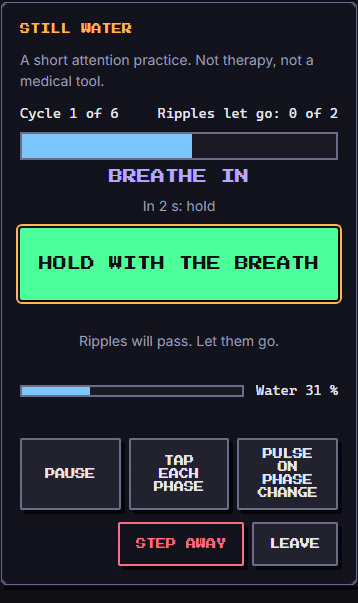
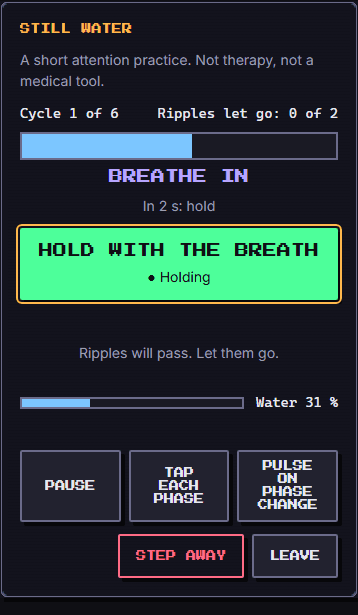
test(games): Still Water review round 1: e2e updated, notes, screenshots [game-still-water]

diff --git a/e2e/games/still-water.spec.ts b/e2e/games/still-water.spec.ts
@@ -59,18 +59,18 @@ test('plays a full game to an outcome', async ({ page }, testInfo) => {
   await begin(page);
   const cue = page.getByTestId('still-water-phase');
   const hold = page.getByTestId('still-water-hold');
-  await expect(cue).toHaveText('Breathe in');
+  await expect(cue).toContainText('Breathe in');
   await hold.hover();
   await page.mouse.down();
   await expect(hold).toHaveAttribute('aria-pressed', 'true');
   await page.clock.runFor(2500);
   await shootGame(page, testInfo, ID, 'play');
   await page.clock.runFor(2500);
-  await expect(cue).toHaveText('Hold');
+  await expect(cue).toContainText('Hold');
   await page.mouse.up();
   await expect(hold).toHaveAttribute('aria-pressed', 'false');
   await page.clock.runFor(1500);
-  await expect(cue).toHaveText('Breathe out');
+  await expect(cue).toContainText('Breathe out');
   await page.getByRole('button', { name: 'Pause' }).click();
   await expect(cue).toHaveText(/Paused/);
   await page.getByRole('button', { name: 'Resume' }).click();
@@ -93,7 +93,7 @@ test('replaying the same seed gives the same outcome', async ({ page }) => {
   expect(outcome.result).toBe('fled');
   // One perfect cycle of eight, ceiling 900 (no ripple has passed yet, the calm is whole): 100 x 900 / 800, rounded.
   expect(outcome.score).toBe('113');
-  expect(outcome.log).toMatch(/Cycle 1: the breath matched 100 %/);
+  expect(outcome.log).toMatch(/Cycle 1: the breath matched 100\s%/);
 });
 
 // This game's own checks.
@@ -103,7 +103,7 @@ test('plays with the keyboard, in French, and steps away with a partial score', 
   await expect(stage(page).getByRole('heading', { name: 'Eau calme' })).toBeVisible();
   await expect(page.getByTestId('still-water-disclaimer')).toContainText('ni une thérapie');
   await begin(page);
-  await expect(page.getByTestId('still-water-phase')).toHaveText('Inspire');
+  await expect(page.getByTestId('still-water-phase')).toContainText('Inspire');
   // Focus goes to the big button, so Space is enough; Enter holds too.
   await expect(page.getByTestId('still-water-hold')).toBeFocused();
   await page.keyboard.down('Space');
@@ -113,7 +113,7 @@ test('plays with the keyboard, in French, and steps away with a partial score', 
   await expect(page.getByTestId('still-water-hold')).toHaveAttribute('aria-pressed', 'true');
   await page.keyboard.up('Enter');
   await page.clock.runFor(5000);
-  await expect(page.getByTestId('still-water-phase')).toHaveText('Retiens');
+  await expect(page.getByTestId('still-water-phase')).toContainText('Retiens');
   await stage(page).getByRole('button', { name: "S'éloigner" }).click();
   expect((await readOutcome(page)).result).toBe('fled');
   await expect(page.getByTestId('still-water-banner')).toContainText('Tu as quitté la berge');
@@ -123,15 +123,19 @@ test('plays with the keyboard, in French, and steps away with a partial score', 
   await expectValidOutcome(page);
 });
 
-test('a higher difficulty breathes faster, and a Move troop can choose the pace', async ({ page }) => {
+test('a Move troop can choose the pace before it begins', async ({ page }) => {
   await openLab(page, ID, { seed: 9, difficulty: 1, party: 'starter' });
   const rhythm = page.getByTestId('still-water-rhythm');
-  const easy = (await rhythm.innerText()).replace(/\s/g, ' ');
-  expect(easy).toBe('In 4 s · hold 2 s · out 6 s');
+  expect((await rhythm.innerText()).replace(/\s/g, ' ')).toBe('In 4 s · hold 2 s · out 6 s');
   await page.getByRole('button', { name: 'Slow' }).click();
   expect((await rhythm.innerText()).replace(/\s/g, ' ')).toBe('In 5 s · hold 2.5 s · out 7.5 s');
+  await page.getByRole('button', { name: 'Begin' }).click();
+  await expect(page.getByRole('button', { name: 'Slow' })).toHaveCount(0);
+});
+
+test('a higher difficulty breathes faster, and without a Move troop there is no pace to choose', async ({ page }) => {
   await openLab(page, ID, { seed: 9, difficulty: 5, party: 'single' });
-  expect((await rhythm.innerText()).replace(/\s/g, ' ')).toBe('In 3 s · hold 1 s · out 3.5 s');
+  expect((await page.getByTestId('still-water-rhythm').innerText()).replace(/\s/g, ' ')).toBe('In 3 s · hold 1 s · out 3.5 s');
   await expect(page.getByRole('button', { name: 'Slow' })).toHaveCount(0);
   await expectResponsiveGame(page);
 });
@@ -142,7 +146,7 @@ test('reduced motion keeps the text cue with a bar instead of the ring; small an
   await expect(page.getByRole('progressbar', { name: 'Breath' })).toBeVisible();
   await freezeClock(page);
   await begin(page);
-  await expect(page.getByTestId('still-water-phase')).toHaveText('Breathe in');
+  await expect(page.getByTestId('still-water-phase')).toContainText('Breathe in');
   await expect(page.getByRole('progressbar', { name: 'Breath' })).toHaveAttribute('aria-valuetext', 'Breathe in');
   await page.keyboard.down('Space');
   await page.clock.runFor(2000);

diff --git a/docs/review/notes/game-still-water.md b/docs/review/notes/game-still-water.md
@@ -37,7 +37,7 @@ Legend: done (was right in the seed), fixed (wrong or weak in the seed, now righ
 | Item | Status |
 | --- | --- |
 | Rhythm 4-2-6 at difficulty 1, 5-3-7 and faster by difficulty, 5 to 8 cycles | done (kept the seed's table: 4-2-6, 5-3-7, 4-2-5, 3-2-4, 3-1-3.5; cycles 5, 6, 6, 7, 8); tested; exact table in the docs |
-| Accuracy is the overlap of hold and ideal, per cycle, smooth water score, no failure state | fixed (hits minus false holds over the ideal; water fills smoothly over the first cycle) |
+| Accuracy is the overlap of hold and ideal, per cycle, smooth water score, no failure state | fixed (hit share of the hold ticks minus false-hold share of the release ticks; water fills smoothly over the first cycle) |
 | Decoys only after the first two cycles; one on the water at a time | fixed (slotted placement, tested for 5 difficulties x 30 seeds); the seed could stack them |
 | Tapping a decoy costs a little calm; ignoring adds to steadiness | done, fixed counting (steadiness derived from decoys that left untouched; forfeit no longer counts ripples that never appeared) |
 | Never a loud sound; no sound by default | done: no sound at all, no setting (the brief allows it) |
@@ -54,7 +54,7 @@ Legend: done (was right in the seed), fixed (wrong or weak in the seed, now righ
 | `onFrame(alpha)` for smooth drawing, 50 ms tick, `useFixedStep` | fixed (added): the ring is painted from `onFrame` straight into the DOM |
 | Engine pure: no `Math.random`, `Date`, `navigator` in `.ts` files | done (lint passes); integer arithmetic for scoring |
 | All text via `strings.ts`, en and fr, natural French with "tu" | fixed log and button copy; a unit test forbids "vous" |
-| At least 25 unit tests | 56 engine tests (the seed had 28), 21 Screen tests (the seed had 5), the 10 contract kit tests |
+| At least 25 unit tests | 64 engine tests (the seed had 28), 28 Screen tests (the seed had 5), the 10 contract kit tests |
 | Accessible: labelled controls, `aria-live`, focus, 44 px, contrast | fixed: tokens only (no hard-coded colours), non-colour signal for holding (filled ring, thick edge, aria-pressed), groups with names |
 | Responsive at 320x568, 390x844 at 150 percent, 844x390 | fixed: looked at screenshots at the three sizes; two columns in landscape, pond bounded by `dvh`, reserved ripple row; `expectResponsiveGame` in the e2e |
 | Leaving early scores through the engine's forfeit | done, kept (`forfeit` action, then a separate Leave); unplayed cycles count as 0 |
@@ -70,7 +70,7 @@ Legend: done (was right in the seed), fixed (wrong or weak in the seed, now righ
 ## Decisions
 
 - **Scoring formula.** `score = round(mean cycle accuracy x ceiling / 100)`, `ceiling = 850 + 100 x (ripples let go / ripples) + 50 x calm / 100`. Ignoring ripples can only raise a good breath, never rescue a bad one (a player who never holds and ignores everything scores 0, which the seed's flat bonuses did not guarantee).
-- **Accuracy is hits minus false holds over the ideal,** not Jaccard: always-held scores 0 to 21 percent depending on the rhythm, never held scores 0.
+- **Accuracy is the hit share of the hold ticks minus the false-hold share of the release ticks,** not Jaccard and not a single shared denominator: always held and never held both score 0 whatever the grace (see review round 1).
 - **Pace not score.** Move's pace changes the length of the breath only. No multiplier, so nobody is rewarded for choosing one.
 - **Hint is information only,** no points. The `hint` buff count means cycles of hint, Eat means all cycles.
 - **Bot table is deliberately sloppy** (it presses up to 2 s late at difficulty 1) so that its win rate falls from 94 to 44 percent with the difficulty and sits at 58 to 66 percent on normal; the numbers are in `docs/games/still-water.md`.
@@ -85,6 +85,31 @@ Nothing needed. Observations only, for the maintainers:
 
 - `src/components/SystemWindow.tsx` hard-codes its tone colours (`#6b6b8a`, `#ffb84d`, ...) instead of tokens; not touched.
 - The Lab's `Bot play` after `Replay same seed` (the earlier workaround in this file): `replay()` sets `previous` to the current result and clears it, so a bot run after a replay compares against `null` only when no result existed. The e2e no longer depends on that (the replay spec plays the same scripted breath twice).
+
+## Review round 1 (independent review of `6ba11ad`: 0 critical, 3 major, 12 minor)
+
+Fixed:
+
+- **M1, always-hold could win with a wide grace.** Accuracy is now `hits / H - false holds / R` (hold and release ticks each on their own scale), so holding all the time is 0 at every grace. A sweep test (difficulty 1 to 5, the three paces, four parties, five buff sets with `time` 90 s three times, Sleep and Move at power 100, `revive` 10) plays always-held and never-held 600 times and asserts a loss under 300 points every time. While sweeping, `revive` turned out to be the same exploit (a big count made no play a win): it now forgives at most a third of the cycles. The bot was re-measured (docs table): 91, 55, 46, 35, 22 percent with the starter party and 94, 63, 57, 53, 42 with the full party; the table did not need to change.
+- **M2, tap mode lost an early tap.** A press in the last 10 ticks (half a second) before a phase change now belongs to the new phase (`tapTarget`); it never toggles. Engine tests for early, on-time and late taps and a tap player at 8, 3, 0 and -3 ticks early (all at least 90 percent), Screen test for a tap before the breath out.
+- **M3, "Breathe in" after the end.** The cue is now `done` ("Done", "Terminé") once the game is over, the ring rests, nothing comes next; Screen and e2e tests.
+- Minor 1 (stuck hold when tap mode is switched off): release on mode change, tested.
+- Minor 2 (focus lost at the end): the result banner takes the focus when the game ends (Screen and e2e tests).
+- Minor 3 (holding by colour only): the hold button shows "● Holding" or "○ Let go", in words and a shape.
+- Minor 5 (French typography): non-breaking spaces before ":" and "%", in the counters ("0 sur 2") and "n of total"; seconds with a decimal comma in French; "Laisse-les." became "Ne les touche pas."
+- Minor 6 (Pause moved the button): the paused cue is now the short "Paused" / "En pause", never longer than a phase cue.
+- Minor 7 (ripple under the hold button): twice the gap above the ripple row (the row stays under the button, so the layout stays still).
+- Minor 8 (test title), minor 9 (the won title is now "Still water. Well breathed." / "Eau calme. Belle respiration."), minor 10 (unused `waterLabel` and `pace` keys removed).
+- Minor 11 (hidden tab): the game pauses and says "Paused" on return.
+- Minor 12 (Eat and `hint` visual only): with a hint the live cue also says how long the phase lasts ("Breathe in, 4 seconds"), once per phase.
+- The e2e "difficulty" test, which opened the Lab twice (the known navigation flake of `docs/review/qa-report.md` hit it once in nine repeats), is two tests with one open each.
+
+Skipped, with the reason:
+
+- **Minor 4 (skipping the rest phase still wins).** Forgiving by design: the rest is a quarter to 40 percent of the hold, and a player who holds only the breath in earns that much less. Documented in the docs page; no weighting added.
+- **Minor 7, moving the ripple row above the stage.** Kept the row under the hold button (a reserved row, no layout shift) and widened the gap instead; moving it would put it in the thumb's path to the Pause row or above the pond, away from where the eyes are.
+
+CI note: after merging `origin/integration/arena` (PR #28) the shared specs no longer depend on the registered games.
 
 ## CI on this branch
 
